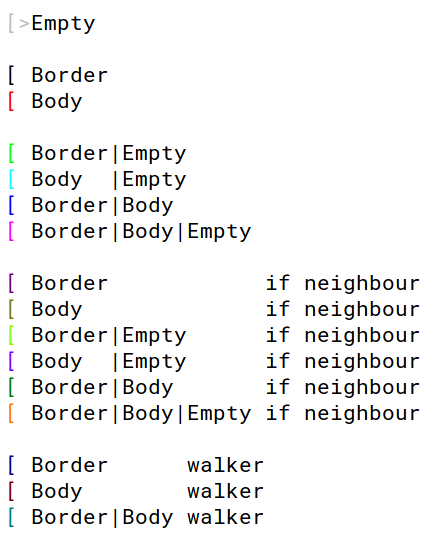
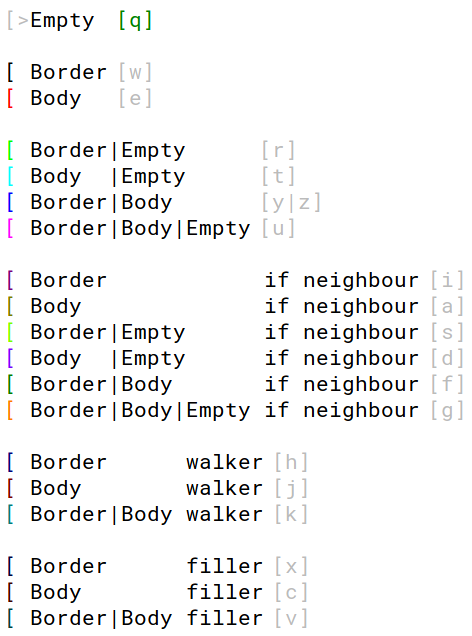
updated brushes image to display the hotkey text

Changed region(s): [[0.0598, 0.0889, 0.9862, 1.0], [0.0, 0.0889, 0.0299, 1.0], [0.0, 0.0, 0.3287, 0.0593]]

diff --git a/README.md b/README.md
@@ -20,7 +20,7 @@ I'd love to hear your feedback, so don't be shy :)
 
 Guide
 -----
-Written for version 1.8.0 of `Spritify`.
+Written for version 1.8.1 of `Spritify`.
 
 ### Brushes / input pixels
 [Spritify](http://spritify.com) offers several pixels for the creation of input images.  
